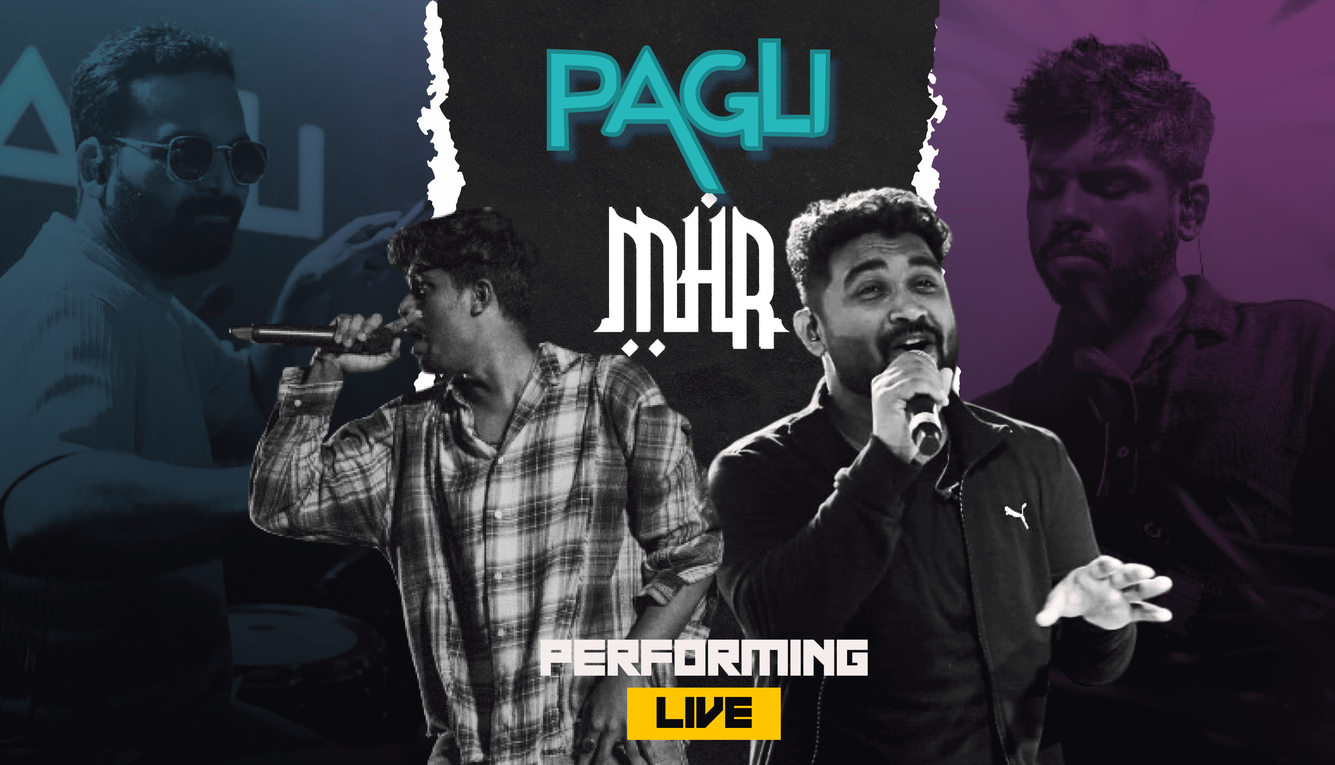
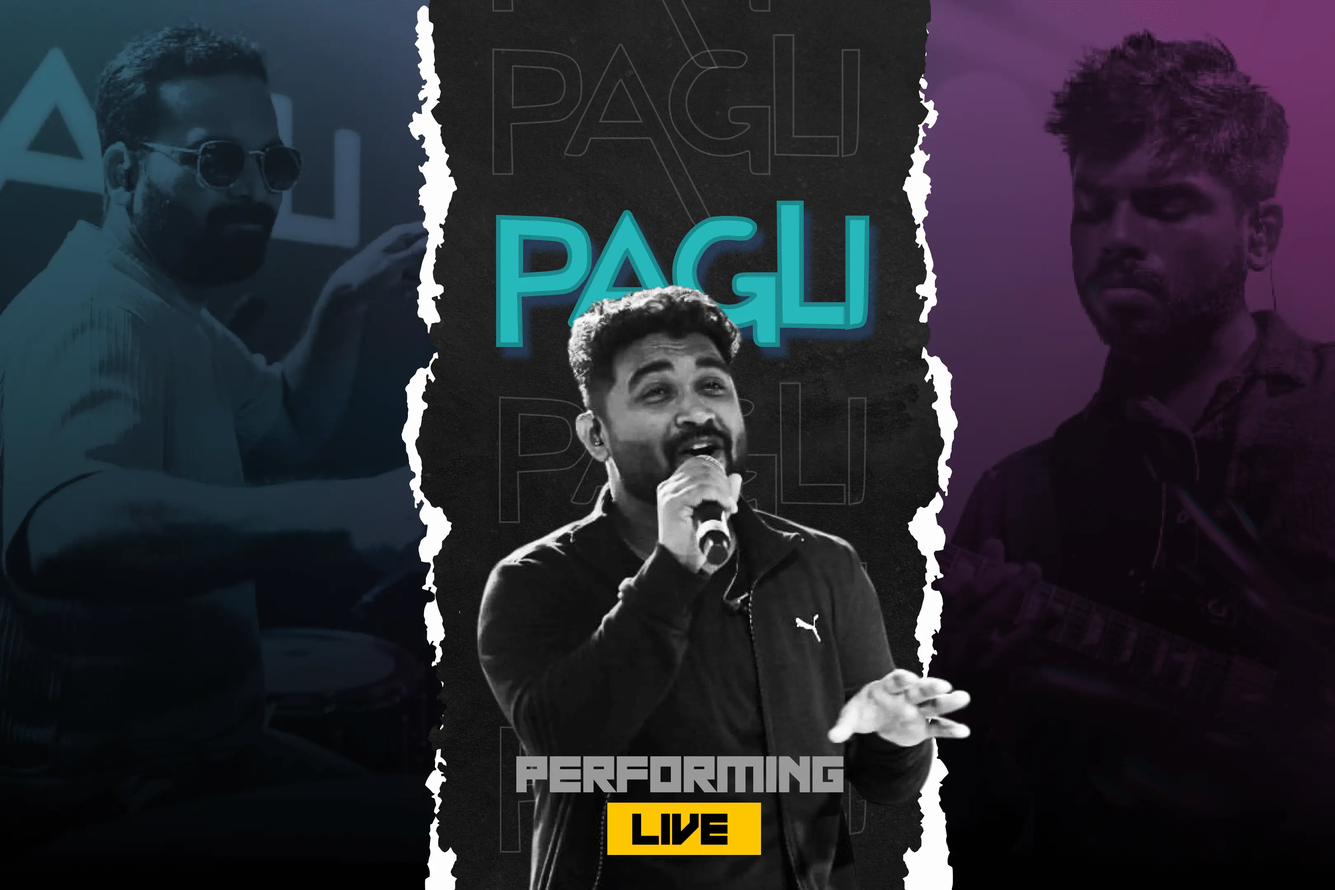
schedule updated

diff --git a/events.html b/events.html
@@ -299,7 +299,7 @@
                       class="wow fadeInLeft"
                       data-wow-duration="1s"
                       data-wow-delay=".3s"
-                      >3.00-4.00pm</span
+                      >10.00-11.00am</span
                     >
                     <h4
                       class="wow fadeInUp"
@@ -314,14 +314,14 @@
                     data-wow-duration="1s"
                     data-wow-delay=".5s"
                   >
-                    <img src="img/events/BURN THE FLOOR POSTER.webp" alt="" />
+                    <img src="img/events/VOICE-POSTER.webp" alt="" />
                   </div>
                   <h4
                     class="wow fadeInUp"
                     data-wow-duration="1s"
                     data-wow-delay=".6s"
                   >
-                    Burn The Floor
+                    Voice Of Tejasvi
                   </h4>
                 </div>
               </div>
@@ -333,7 +333,7 @@
                       class="wow fadeInRight"
                       data-wow-duration="1s"
                       data-wow-delay=".3s"
-                      >3.00-4.00pm</span
+                      >11.15-12.15pm</span
                     >
                     <h4
                       class="wow fadeInRight"
@@ -348,44 +348,10 @@
                     data-wow-duration="1s"
                     data-wow-delay=".5s"
                   >
-                    <img src="img/events/MODE POSTER.webp" alt="" />
-                  </div>
-                  <h4
-                    class="wow fadeInRight"
-                    data-wow-duration="1s"
-                    data-wow-delay=".6s"
-                  >
-                    Tejasvi Mode
-                  </h4>
-                </div>
-              </div>
-              <div class="single_propram">
-                <div class="inner_wrap">
-                  <div class="circle_img"></div>
-                  <div class="program_top">
-                    <span
-                      class="wow fadeInLeft"
-                      data-wow-duration="1s"
-                      data-wow-delay=".3s"
-                      >3.00-4.00pm</span
-                    >
-                    <h4
-                      class="wow fadeInUp"
-                      data-wow-duration="1s"
-                      data-wow-delay=".4s"
-                    >
-                      09 May 2024
-                    </h4>
-                  </div>
-                  <div
-                    class="thumb wow fadeInUp"
-                    data-wow-duration="1s"
-                    data-wow-delay=".5s"
-                  >
                     <img src="img/events/PERSONA.webp" alt="" />
                   </div>
                   <h4
-                    class="wow fadeInUp"
+                    class="wow fadeInRight"
                     data-wow-duration="1s"
                     data-wow-delay=".6s"
                   >
@@ -398,10 +364,44 @@
                   <div class="circle_img"></div>
                   <div class="program_top">
                     <span
+                      class="wow fadeInLeft"
+                      data-wow-duration="1s"
+                      data-wow-delay=".3s"
+                      >1.00-1.45pm</span
+                    >
+                    <h4
+                      class="wow fadeInUp"
+                      data-wow-duration="1s"
+                      data-wow-delay=".4s"
+                    >
+                      09 May 2024
+                    </h4>
+                  </div>
+                  <div
+                    class="thumb wow fadeInUp"
+                    data-wow-duration="1s"
+                    data-wow-delay=".5s"
+                  >
+                    <img src="img/events/DUET dance.webp" alt="" />
+                  </div>
+                  <h4
+                    class="wow fadeInUp"
+                    data-wow-duration="1s"
+                    data-wow-delay=".6s"
+                  >
+                    Duet Dance
+                  </h4>
+                </div>
+              </div>
+              <div class="single_propram">
+                <div class="inner_wrap">
+                  <div class="circle_img"></div>
+                  <div class="program_top">
+                    <span
                       class="wow fadeInRight"
                       data-wow-duration="1s"
                       data-wow-delay=".3s"
-                      >3.00-4.00pm</span
+                      >2.00-3.00pm</span
                     >
                     <h4
                       class="wow fadeInRight"
@@ -416,14 +416,14 @@
                     data-wow-duration="1s"
                     data-wow-delay=".5s"
                   >
-                    <img src="img/events/VOICE-POSTER.webp" alt="" />
+                    <img src="img/events/BURN THE FLOOR POSTER.webp" alt="" />
                   </div>
                   <h4
                     class="wow fadeInRight"
                     data-wow-duration="1s"
                     data-wow-delay=".6s"
                   >
-                    Voice Of Tejasvi
+                    Burn The Floor
                   </h4>
                 </div>
               </div>
@@ -450,14 +450,14 @@
                     data-wow-duration="1s"
                     data-wow-delay=".5s"
                   >
-                    <img src="img/events/DUET dance.webp" alt="" />
+                    <img src="img/events/MODE POSTER.webp" alt="" />
                   </div>
                   <h4
                     class="wow fadeInLeft"
                     data-wow-duration="1s"
                     data-wow-delay=".6s"
                   >
-                    Duet Dance
+                    Tejasvi Mode
                   </h4>
                 </div>
               </div>

diff --git a/index.html b/index.html
@@ -465,7 +465,7 @@
                       class="wow fadeInLeft"
                       data-wow-duration="1s"
                       data-wow-delay=".3s"
-                      >9.00-10.00am</span
+                      >10.00-11.00am</span
                     >
                     <h4
                       class="wow fadeInUp"
@@ -480,14 +480,14 @@
                     data-wow-duration="1s"
                     data-wow-delay=".5s"
                   >
-                    <img src="img/events/BURN THE FLOOR POSTER.webp" alt="" />
+                    <img src="img/events/VOICE-POSTER.webp" alt="" />
                   </div>
                   <h4
                     class="wow fadeInUp"
                     data-wow-duration="1s"
                     data-wow-delay=".6s"
                   >
-                    Burn The Floor
+                    Voice Of Tejasvi
                   </h4>
                 </div>
               </div>
@@ -499,7 +499,7 @@
                       class="wow fadeInRight"
                       data-wow-duration="1s"
                       data-wow-delay=".3s"
-                      >10.00-12.00pm</span
+                      >11.15-12.15pm</span
                     >
                     <h4
                       class="wow fadeInRight"
@@ -514,14 +514,14 @@
                     data-wow-duration="1s"
                     data-wow-delay=".5s"
                   >
-                    <img src="img/events/MODE POSTER.webp" alt="" />
+                    <img src="img/events/PERSONA.webp" alt="" />
                   </div>
                   <h4
                     class="wow fadeInRight"
                     data-wow-duration="1s"
                     data-wow-delay=".6s"
                   >
-                    Tejasvi Mode
+                    Persona
                   </h4>
                 </div>
               </div>
@@ -533,7 +533,7 @@
                       class="wow fadeInLeft"
                       data-wow-duration="1s"
                       data-wow-delay=".3s"
-                      >12.00-1.00pm</span
+                      >1.00-1.45pm</span
                     >
                     <h4
                       class="wow fadeInUp"
@@ -548,14 +548,14 @@
                     data-wow-duration="1s"
                     data-wow-delay=".5s"
                   >
-                    <img src="img/events/PERSONA.webp" alt="" />
+                    <img src="img/events/DUET dance.webp" alt="" />
                   </div>
                   <h4
                     class="wow fadeInUp"
                     data-wow-duration="1s"
                     data-wow-delay=".6s"
                   >
-                    Persona
+                    Duet Dance
                   </h4>
                 </div>
               </div>
@@ -582,14 +582,14 @@
                     data-wow-duration="1s"
                     data-wow-delay=".5s"
                   >
-                    <img src="img/events/VOICE-POSTER.webp" alt="" />
+                    <img src="img/events/BURN THE FLOOR POSTER.webp" alt="" />
                   </div>
                   <h4
                     class="wow fadeInRight"
                     data-wow-duration="1s"
                     data-wow-delay=".6s"
                   >
-                    Voice Of Tejasvi
+                    Burn The Floor
                   </h4>
                 </div>
               </div>
@@ -616,14 +616,14 @@
                     data-wow-duration="1s"
                     data-wow-delay=".5s"
                   >
-                    <img src="img/events/DUET dance.webp" alt="" />
+                    <img src="img/events/MODE POSTER.webp" alt="" />
                   </div>
                   <h4
                     class="wow fadeInLeft"
                     data-wow-duration="1s"
                     data-wow-delay=".6s"
                   >
-                    Duet Dance
+                    Tejasvi Mode
                   </h4>
                 </div>
               </div>

diff --git a/performer.html b/performer.html
@@ -110,6 +110,26 @@
     <!-- performar_area_start  used as PROSHOW section -->
     <div class="performar_area black_bg">
       <div class="container">
+        <div class="row">
+          <div class="col-lg-12">
+            <div class="section_title mb-80">
+            
+              <p
+                class="wow fadeInLeft"
+                data-wow-duration="1s"
+                data-wow-delay=".4s"
+              >
+                Experience the electrifying performance of Pagli at
+                Tejasvi! Heralded as the evening's main attractions, Pagli promise to captivate audiences with their unique
+                styles and genres. Prepare to be mesmerized as they take the
+                stage, delivering high-energy performances that will leave you
+                spellbound. Don't miss this opportunity to witness Pagli
+                in action, as they showcase their extraordinary talents and
+                contribute to the vibrant atmosphere of Tejasvi.
+              </p>
+            </div>
+          </div>
+        </div>
         <div class="row justify-content-center">
           <div
             class="col-lg-12 proshow wow fadeInUp"
@@ -124,7 +144,7 @@
     <!-- performar_area_end  -->
 
     <!-- performar_area_start  -->
-    <div class="performar_area black_bg">
+    <!-- <div class="performar_area black_bg">
       <div class="container">
         <div class="row">
           <div class="col-lg-12">
@@ -176,7 +196,7 @@
           </div>
         </div>
       </div>
-    </div>
+    </div> -->
     <!-- performar_area_end  -->
 
        <!-- brand_area_start  -->

diff --git a/about.html b/about.html
@@ -203,12 +203,11 @@
                 data-wow-duration="1s"
                 data-wow-delay=".4s"
               >
-                Experience the electrifying performances of MHR and Pagli at
-                Tejasvi! Heralded as two of the evening's main attractions, MHR
-                and Pagli promise to captivate audiences with their unique
+                Experience the electrifying performance of Pagli at
+                Tejasvi! Heralded as the evening's main attractions, Pagli promise to captivate audiences with their unique
                 styles and genres. Prepare to be mesmerized as they take the
                 stage, delivering high-energy performances that will leave you
-                spellbound. Don't miss this opportunity to witness MHR and Pagli
+                spellbound. Don't miss this opportunity to witness Pagli
                 in action, as they showcase their extraordinary talents and
                 contribute to the vibrant atmosphere of Tejasvi.
               </p>
